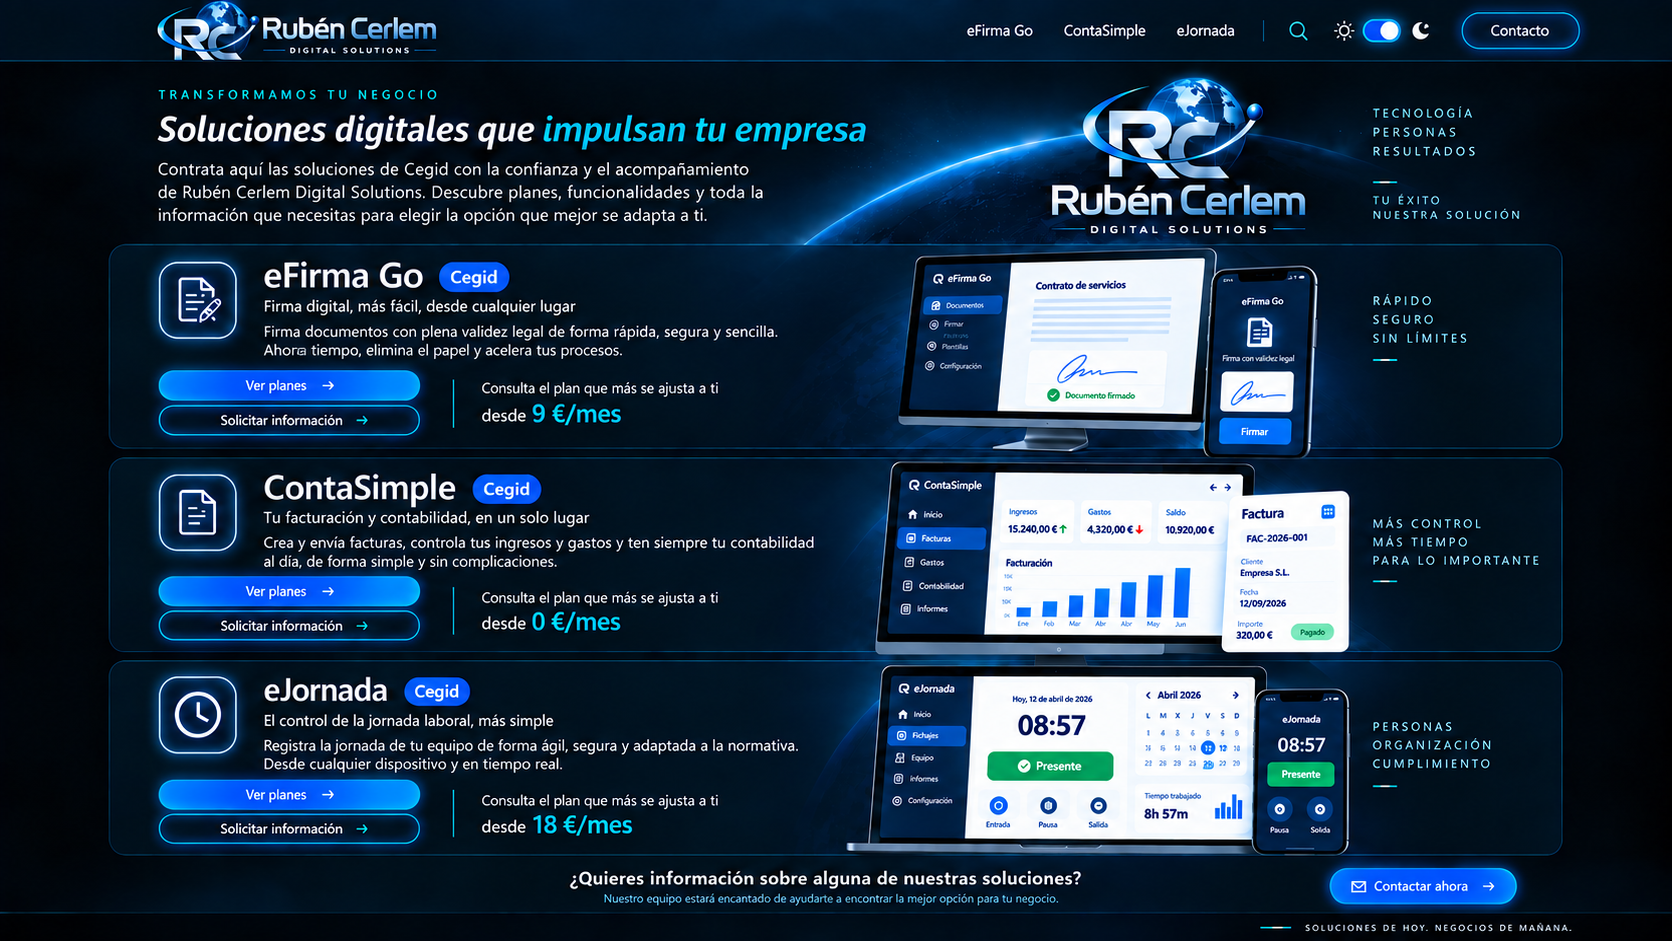
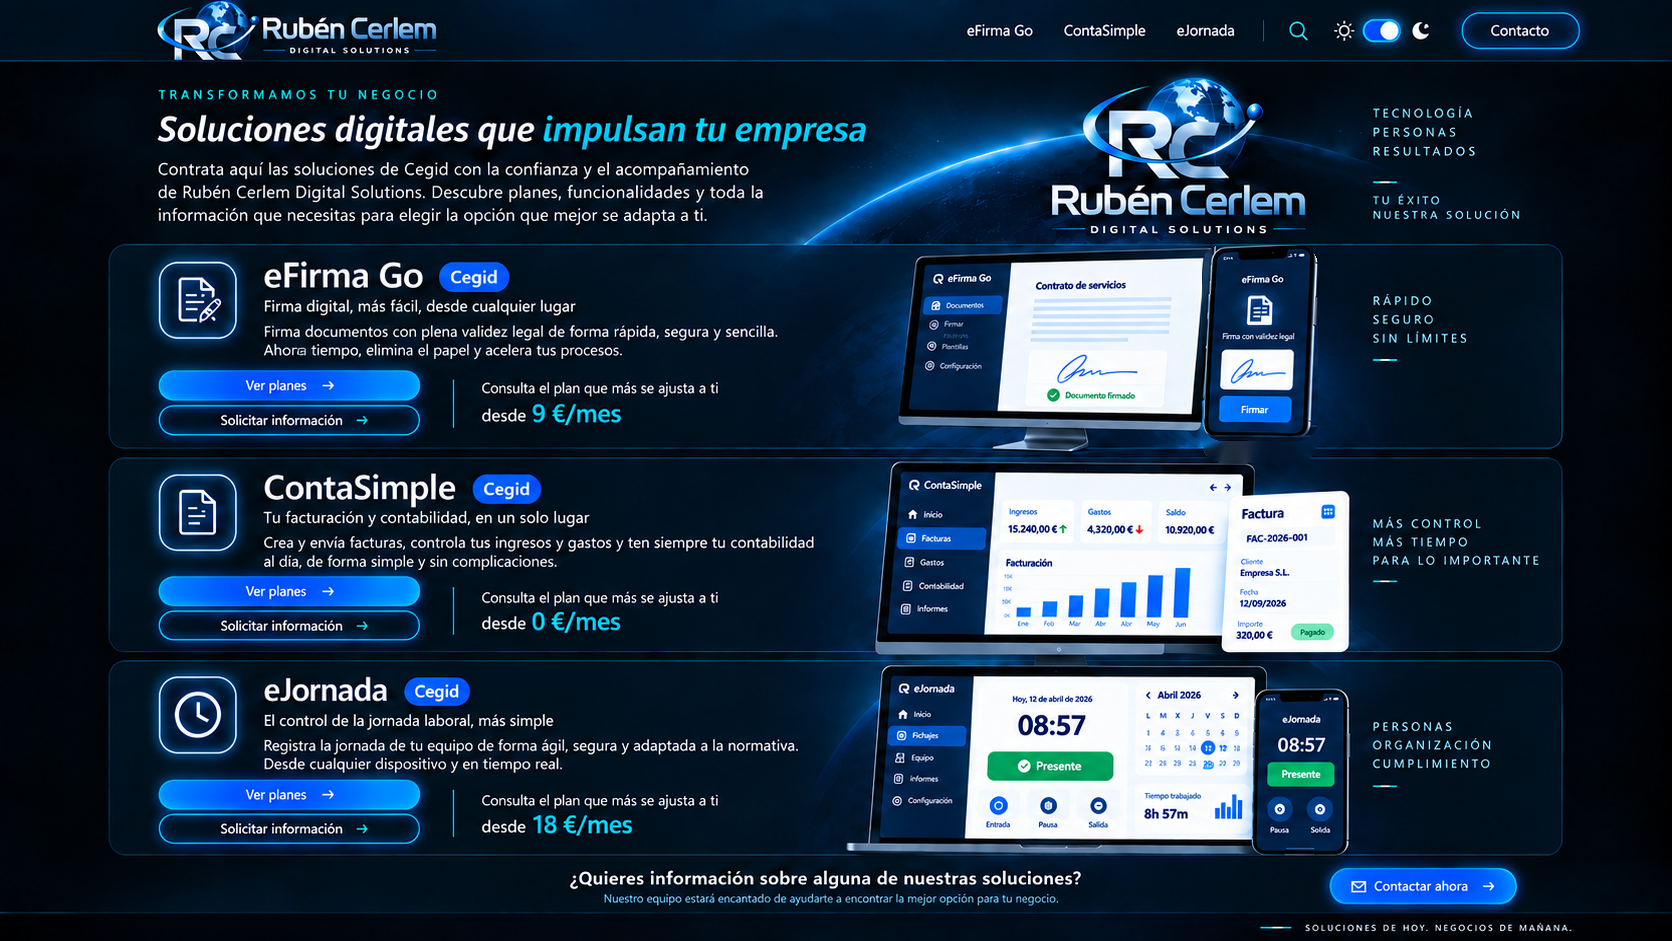
Add files via upload

Changed region(s): [[0.7153, 0.2465, 0.8086, 0.4931]]

diff --git a/css/styles.css b/css/styles.css
@@ -2081,3 +2081,55 @@ html[data-theme="dark"] .v15-stage::before{
   .v22-hotspots .v23-action{font-size:11px;padding:0 8px!important}
   .v22-hotspots .v23-contact{font-size:10px;gap:5px}
 }
+
+
+/* === V24 · alineación exacta de controles sobre la interfaz rasterizada === */
+/* Top navigation: hover/focus boxes coincide with the visible labels and controls. */
+.v22-hotspots .hs-top-efirma{left:56.52%;top:1.59%;width:5.20%;height:3.40%;}
+.v22-hotspots .hs-top-conta{left:62.62%;top:1.59%;width:5.92%;height:3.40%;}
+.v22-hotspots .hs-top-jornada{left:69.20%;top:1.59%;width:4.49%;height:3.40%;}
+.v22-hotspots .hs-top-theme{left:79.25%;top:1.38%;width:4.49%;height:3.83%;}
+.v22-hotspots .hs-top-contact{left:86.24%;top:1.27%;width:5.50%;height:4.04%;}
+
+/* Theme selector remains functional but does not draw a stray extra rectangle. */
+.v22-hotspots .hs-top-theme:hover,
+.v22-hotspots .hs-top-theme:focus-visible{
+  background:transparent!important;
+  box-shadow:none!important;
+  transform:none!important;
+}
+
+/* Product buttons: exact bounds of the buttons already present in the image. */
+.v22-hotspots .hs-efirma-plans{left:9.51%;top:39.43%;width:15.67%;height:3.19%;}
+.v22-hotspots .hs-efirma-info{left:9.51%;top:43.15%;width:15.67%;height:3.19%;}
+.v22-hotspots .hs-conta-plans{left:9.51%;top:61.11%;width:15.67%;height:3.29%;}
+.v22-hotspots .hs-conta-info{left:9.51%;top:64.93%;width:15.67%;height:3.19%;}
+.v22-hotspots .hs-jornada-plans{left:9.51%;top:82.78%;width:15.67%;height:3.29%;}
+.v22-hotspots .hs-jornada-info{left:9.51%;top:86.72%;width:15.67%;height:3.19%;}
+
+/* Bottom Contactar ahora: exact visible blue pill, away from eJornada device. */
+.v22-hotspots .hs-contact-bottom{left:79.37%;top:92.14%;width:11.42%;height:3.72%;}
+
+/* Center content perfectly both horizontally and vertically. */
+.v22-hotspots .v23-action{
+  display:flex!important;
+  align-items:center!important;
+  justify-content:center!important;
+  text-align:center!important;
+  padding:0 10px!important;
+  line-height:1!important;
+}
+.v22-hotspots .v23-action > span{
+  display:inline-flex!important;
+  align-items:center!important;
+  justify-content:center!important;
+  height:100%!important;
+  line-height:1!important;
+  margin:0!important;
+  padding:0!important;
+}
+.v22-hotspots .v23-contact{gap:6px;white-space:nowrap;font-size:clamp(10px,.76vw,12px);}
+.v22-hotspots .v23-contact .v23-envelope{display:inline-flex;align-items:center;justify-content:center;height:100%;}
+
+/* Remove the old V23 masking strip under the eFirma phone: the raster itself is now corrected. */
+.v15-stage::before{display:none!important;content:none!important;}
